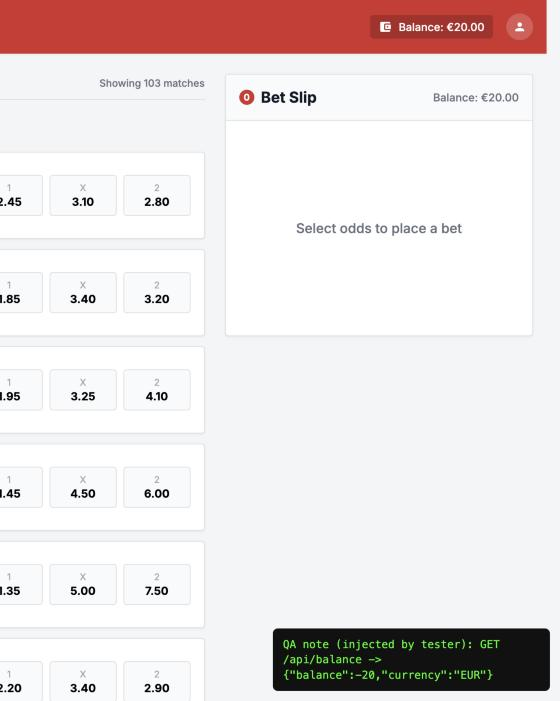
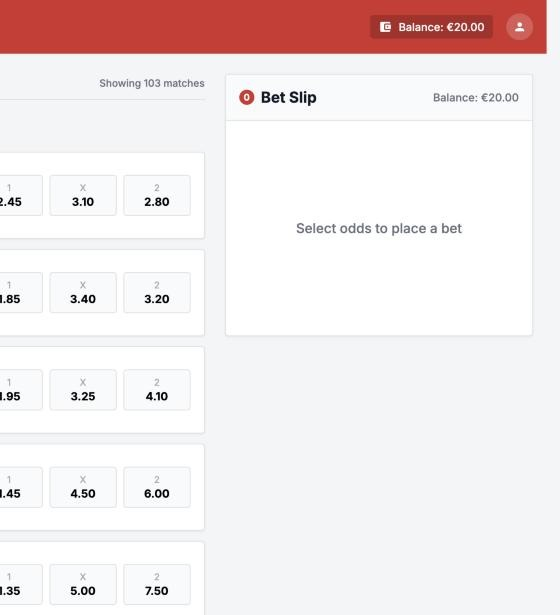
Update stale balance screenshot

diff --git a/docs/EXECUTION_REPORT.md b/docs/EXECUTION_REPORT.md
@@ -100,7 +100,7 @@ The balance was unchanged after every rejected request. Payout was correct for t
 
 **Business impact:** Customers can bet money they do not have. The operator never collects the stake on a losing bet but still pays out on a winning one, and letting customers bet on credit is a compliance problem in regulated markets.
 
-**Evidence:** Response bodies quoted above. [05-stale-ui-balance-vs-api.jpg](evidence/05-stale-ui-balance-vs-api.jpg) shows the API reporting -20.00.
+**Evidence:** Response bodies quoted above.
 
 ---
 
@@ -186,7 +186,7 @@ The bet slip validates the stake against this old value, so the "Insufficient ba
 
 **Business impact:** Customers see money they have already spent and can keep betting with it. They only find out the real balance after a reload, and to them it looks like money has disappeared.
 
-**Evidence:** [05-stale-ui-balance-vs-api.jpg](evidence/05-stale-ui-balance-vs-api.jpg): header and bet slip show €20.00 while the API reports -20.00 (the black box in the corner is an overlay I added to show the API response in the same screenshot).
+**Evidence:** [05-stale-ui-balance-vs-api.jpg](evidence/05-stale-ui-balance-vs-api.jpg): header and bet slip still show €20.00 after two €20.00 bets. `GET /api/balance` at that moment returned `{"balance":-20,"currency":"EUR"}`.
 
 ---
 
